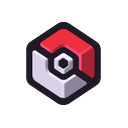
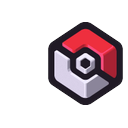
게임 썸네일: 로고를 썸네일 칸 오른쪽에 붙여 카드 오른쪽 여백과 줄 맞춤(앱 이모지 t65r_로 새로 등록)

diff --git a/handlers/공통/썸네일.js b/handlers/공통/썸네일.js
@@ -8,7 +8,7 @@ const { emojiUrl } = require('./카드');
 const { logSystem, logError } = require('./로그');
 
 // 원래 게임 이모지 ID → 여백 넣은 그림 파일 이름. 그림 크기를 바꾸면 PREFIX 를 바꿔 새로 등록되게 한다.
-const PREFIX = 't65c_'; // 시각 중심 보정판(이전 t65_ 앱 이모지와 구분)
+const PREFIX = 't65r_'; // 로고 65% · 오른쪽 붙임 · 세로 가운데(이전 t65_/t65c_ 앱 이모지와 구분)
 const SOURCES = {
   '1510933684750913626': 'lol',
   '1510933698349109268': 'valorant',
